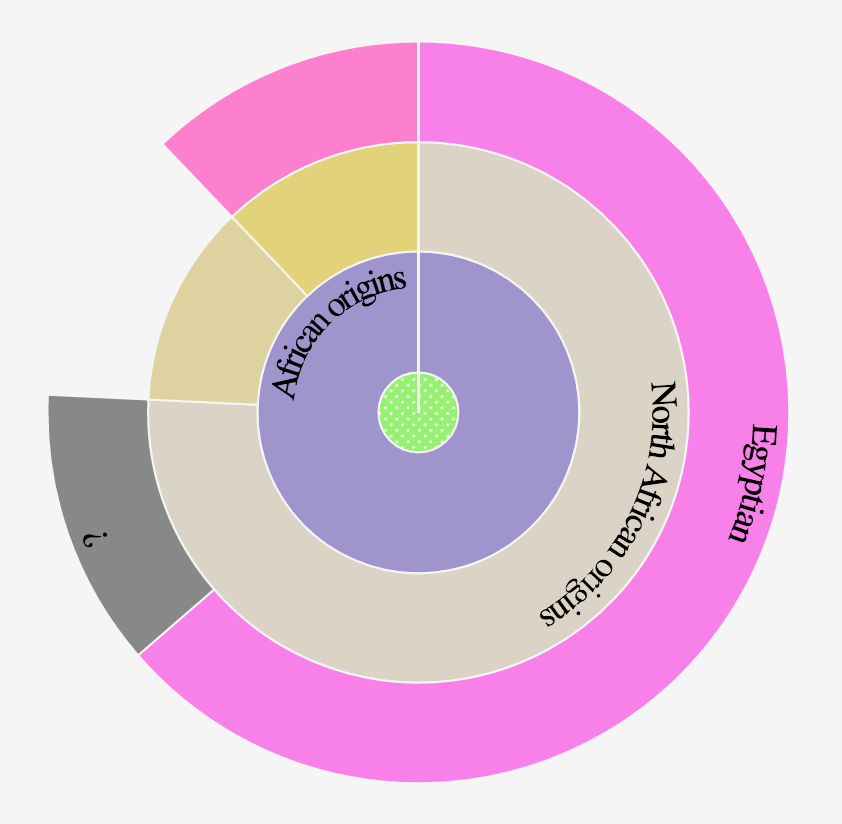
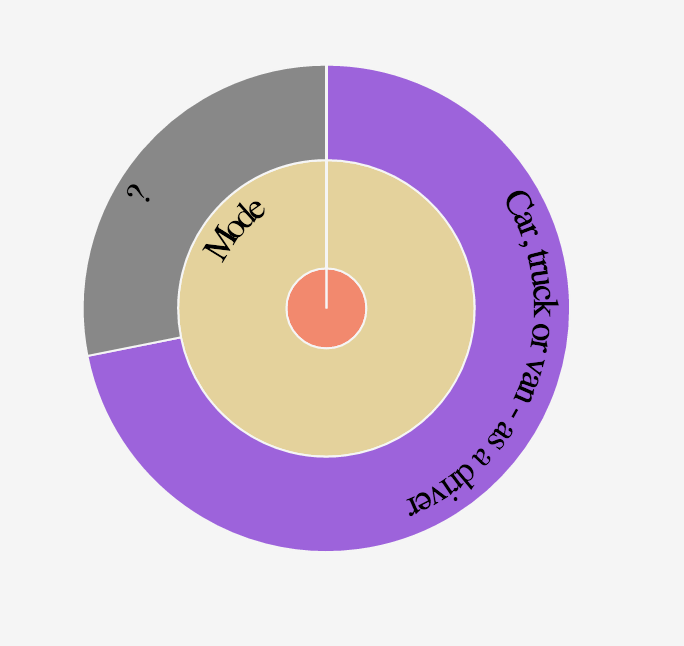
Site updated at 2015-10-26 05:02:33 UTC

diff --git a/blog/2015/10/24/census-drilldown/index.html b/blog/2015/10/24/census-drilldown/index.html
@@ -164,13 +164,13 @@ information that that would compromize the anonymity of the census data for some
 the form of Census Canada not reporting any data for the region, or Census Canada zeroing out specific variables that
 &ldquo;are too low to be reported&rdquo;.
 <img src="/images/unaccounted.png" alt="Unaccounted" style="max-width:400px" align="right"/>
-We have not been able to find clear guidelines how this works, but often this will leave
-detectable traces in the data. For example, looking at &ldquo;African Origins&rdquo; only &ldquo;Egyptian&rdquo; had non-zero values for
-&ldquo;North African Origin&rdquo;.
-In this example there were 125 people with &ldquo;North African Origins&rdquo;, but only 105 people with &ldquo;Egyptian&rdquo; origin. That
-leaves 20 people unaccounted for. This is outside of the range that could be explained by the rounding of the variables,
-there must have been other North African origins that were too small to be reported on. We alert the user by adding in
-a grey area for the missing 20. This also ensures that the visible representation remains accurate.</p>
+We have not been able to find clear guidelines how the &ldquo;zeroing&rdquo; works, but often this will leave
+detectable traces in the data. Looking at the example in the image, looking at &ldquo;Mode of Transport&rdquo; to work only
+&ldquo;Driving&rdquo; has non-zero values, the
+other options &ldquo;Passenger&rdquo;, &ldquo;Transit&rdquo;, &ldquo;Bike&rdquo;, &ldquo;Walk&rdquo; and &ldquo;Other&rdquo; are all zero. There were 160 people getting to work,
+115 are listed as &ldquo;Driver&rdquo;, leaving 45 unaccounted for. This is outside of the range that could be explained by the
+rounding of variables, eaven using extreme odds in the statistical rounding. We alert the user by adding in
+a grey area for the missing 45. This also ensures that the visible representation remains accurate.</p>
 
 <h6>Multiple Responses</h6>
 
